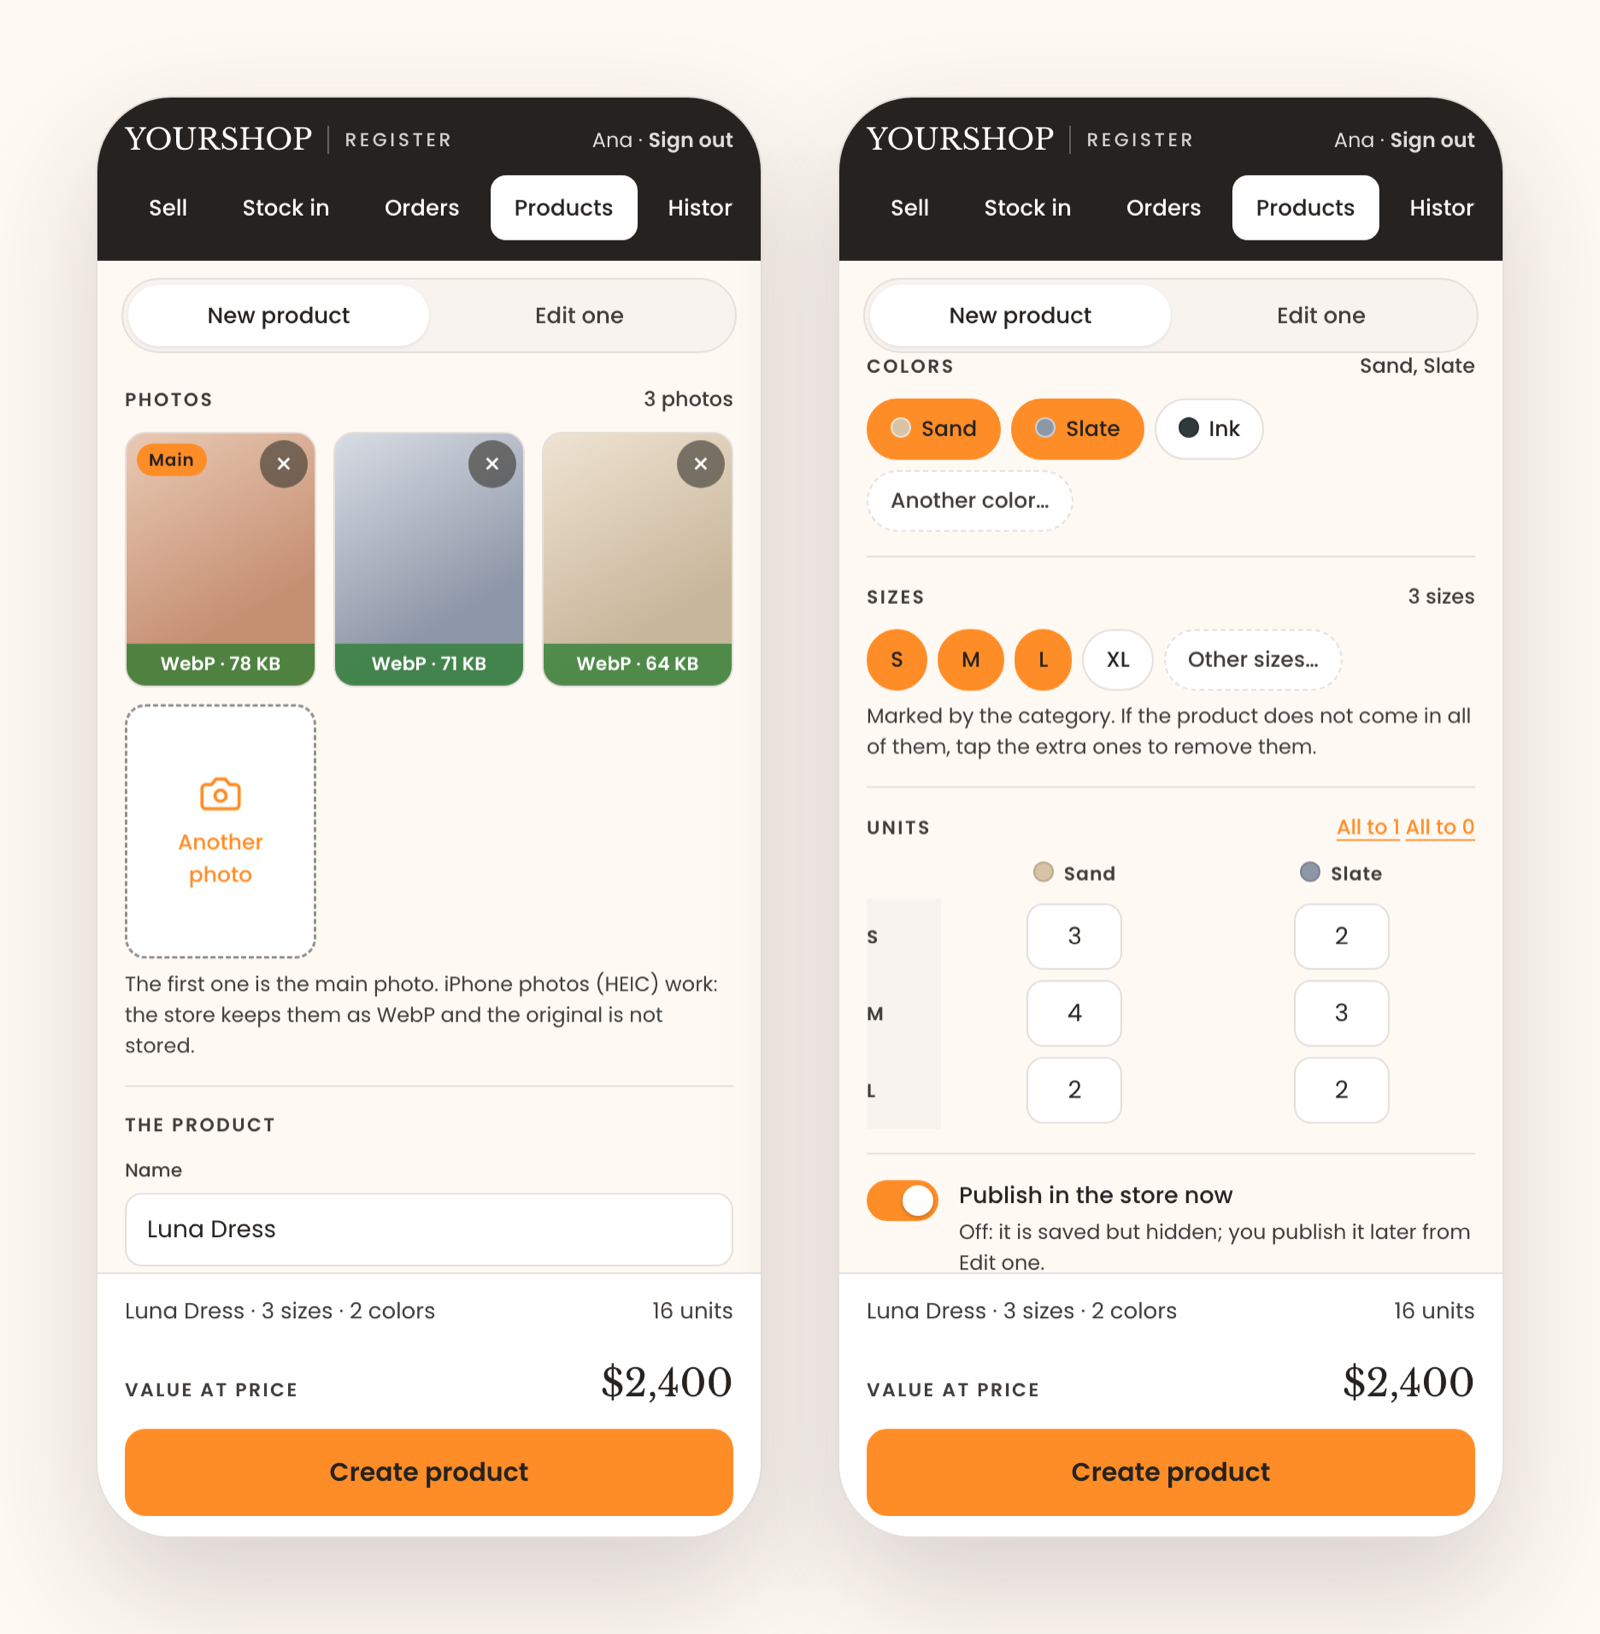
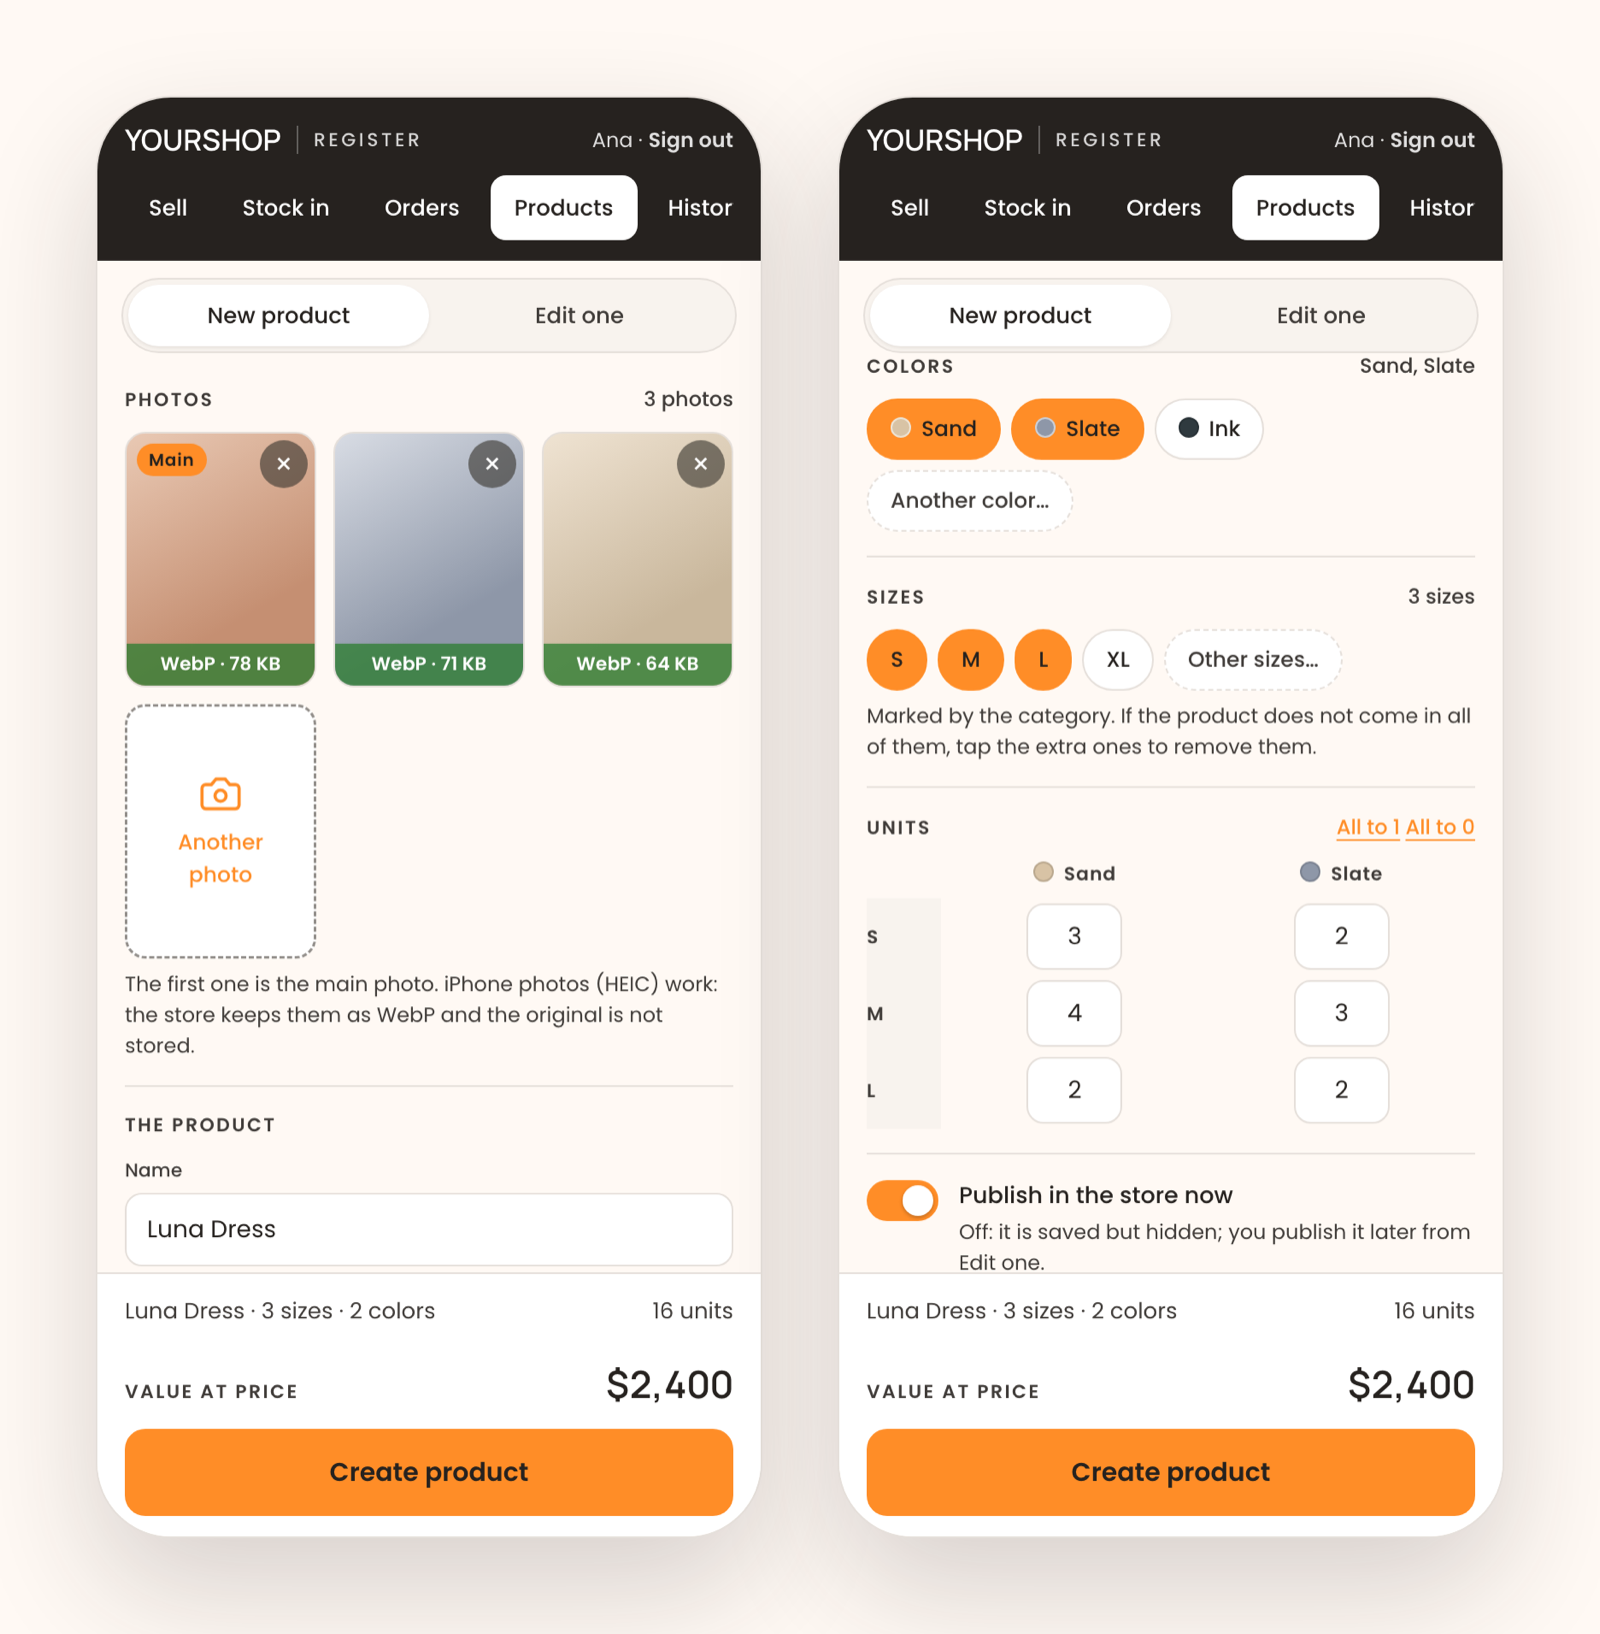
v0.24.6: Manrope en los totales y los titulares, en vez de Libre Baskerville
La caja venía de fábrica con una serif para el total, los números del historial, la
marca de la barra y los títulos. Se veía a libro, no a herramienta, y de lejos el
total no pesaba. Ahora ese papel lo hace Manrope en 600, que es la fuente de
doxstudio.com y tiene los números parejos.

La interfaz sigue en Poppins. La hoja de Google pide el 600 de esa segunda familia,
que antes no se descargaba. Una tienda que ya eligiera sus fuentes en Ajustes no
cambia nada.

Las seis capturas del directorio están rehechas con la pareja nueva.

diff --git a/assets/css/caja.css b/assets/css/caja.css
@@ -9,7 +9,7 @@
   --surface:#FFFFFF; --sunk:#F8F3EE; --line:#E5DFDA; --faint:#928E8A; --muted:#403C39;
   --ok:#2E7D32; --ok-soft:#E6F1E6; --warn:#26221F; --warn-soft:#EEE8E3; --scrim:rgba(38,34,31,.45);
   --ui:"Poppins",-apple-system,BlinkMacSystemFont,"Segoe UI",Roboto,sans-serif;
-  --serif:"Libre Baskerville",Georgia,serif;
+  --serif:"Manrope",-apple-system,BlinkMacSystemFont,"Segoe UI",Roboto,sans-serif;
   --mono:ui-monospace,SFMono-Regular,Menlo,monospace;
   /* Movimiento: entra rápido y se asienta suave; lo que se toca responde en 160 ms. */
   --out:cubic-bezier(.23,1,.32,1);
@@ -29,7 +29,7 @@ button,a,input,select,textarea{touch-action:manipulation} /* sin zoom por doble 
   padding-top:max(12px,env(safe-area-inset-top))}
 .brand{display:flex;align-items:center;gap:9px;white-space:nowrap}
 .logo{height:18px;width:auto;display:block}
-.brand-text{font-family:var(--serif);font-size:17px;color:var(--bar-ink)}
+.brand-text{font-family:var(--serif);font-weight:600;font-size:17px;color:var(--bar-ink)}
 .cajita{font-size:11px;letter-spacing:.16em;text-transform:uppercase;color:var(--bar-ink);opacity:.8;
   font-weight:500;padding-left:9px;border-left:1px solid rgba(0,0,0,.18)}
 .tabs{display:flex;gap:4px;margin-left:8px;overflow-x:auto}
@@ -147,7 +147,7 @@ select{appearance:none;background-image:linear-gradient(45deg,transparent 50%,va
   padding-bottom:max(12px,env(safe-area-inset-bottom))}
 .sum{display:grid;gap:3px;margin-bottom:10px}
 .sum div{display:flex;justify-content:space-between;font-size:13px;color:var(--muted);font-variant-numeric:tabular-nums}
-.sum div.tot{color:var(--ink);font-family:var(--serif);font-size:22px;align-items:baseline;padding-top:5px}
+.sum div.tot{color:var(--ink);font-family:var(--serif);font-weight:600;font-size:22px;align-items:baseline;padding-top:5px}
 .sum div.tot span:first-child{font-family:var(--ui);font-size:11px;letter-spacing:.11em;
   text-transform:uppercase;font-weight:600;color:var(--muted)}
 .go{appearance:none;border:0;width:100%;background:var(--primary);color:var(--primary-ink);border-radius:12px;
@@ -211,7 +211,7 @@ tr.off,li.off{opacity:.5}
 }
 .modal.out{opacity:0;transition-duration:140ms}
 .modal.out .card{transform:scale(.97);opacity:0;transition-duration:140ms}
-.modal h3{font-family:var(--serif);font-weight:400;font-size:20px;margin:0 0 8px}
+.modal h3{font-family:var(--serif);font-weight:600;font-size:20px;margin:0 0 8px}
 .modal .mp{color:var(--muted);font-size:13px;margin:0 0 14px}
 .burb{background:var(--soft);border-radius:14px 14px 14px 4px;padding:12px 14px;font-size:13.5px;
   white-space:pre-wrap;line-height:1.45;color:var(--soft-ink);word-break:break-word}
@@ -343,10 +343,10 @@ tr.off,li.off{opacity:.5}
 .hfechas{display:flex;gap:6px;align-items:center;font-size:12px;color:var(--muted)}
 .hfechas input{width:auto;padding:7px 10px;font-size:13px}
 .histwrap{max-width:1100px;margin:0 auto;width:100%}
-.hsub{font-family:var(--serif);font-size:19px;font-weight:400;margin:12px 0 10px}
+.hsub{font-family:var(--serif);font-size:19px;font-weight:600;margin:12px 0 10px}
 .kpis{display:grid;grid-template-columns:repeat(auto-fit,minmax(150px,1fr));gap:10px}
 .kpi{background:var(--surface);border:1px solid var(--line);border-radius:14px;padding:12px 14px;min-width:0}
-.kpi b{display:block;font-family:var(--serif);font-weight:400;font-size:22px;font-variant-numeric:tabular-nums;white-space:nowrap;overflow:hidden;text-overflow:ellipsis}
+.kpi b{display:block;font-family:var(--serif);font-weight:600;font-size:22px;font-variant-numeric:tabular-nums;white-space:nowrap;overflow:hidden;text-overflow:ellipsis}
 .kpi span{font-size:10.5px;letter-spacing:.08em;text-transform:uppercase;color:var(--muted);font-weight:600}
 .brk{display:grid;grid-template-columns:repeat(auto-fit,minmax(260px,1fr));gap:0 28px}
 .bl{list-style:none;margin:0;padding:0}
@@ -516,7 +516,7 @@ table.ped tr.tot td{font-weight:600;border-top:2px solid var(--line)}
 .login{flex:1;display:grid;place-items:center;padding:24px}
 .login-card{background:var(--surface);border:1px solid var(--line);border-radius:18px;padding:28px 26px;
   width:100%;max-width:380px;display:grid;gap:14px;box-shadow:0 24px 60px -30px rgba(0,0,0,.25)}
-.login-card h1{font-family:var(--serif);font-weight:400;font-size:24px;margin:0}
+.login-card h1{font-family:var(--serif);font-weight:600;font-size:24px;margin:0}
 .login-sub{margin:-10px 0 0;color:var(--muted);font-size:13px}
 .login-err{background:var(--soft);color:var(--soft-accent);border-radius:10px;padding:10px 12px;margin:0;font-size:13px;font-weight:500}
 .login-alt{font-size:13px;color:var(--muted);text-align:center;padding:6px}

diff --git a/assets/css/ajustes.css b/assets/css/ajustes.css
@@ -258,7 +258,7 @@ body.woocommerce_page_dox-pos #wpbody-content{padding-bottom:0}
 /* La caja en miniatura: las mismas variables que caja.css. */
 .dp-bar{display:flex;align-items:center;gap:9px;padding:11px 14px;background:var(--bar);color:var(--bar-ink)}
 .dp-logo-prev{height:16px;width:auto;display:block}
-.dp-brand{font-family:var(--serif);font-size:15px;white-space:nowrap}
+.dp-brand{font-family:var(--serif);font-weight:600;font-size:15px;white-space:nowrap}
 .dp-cajita{font-size:10px;letter-spacing:.16em;text-transform:uppercase;opacity:.8;font-weight:500;padding-left:9px;border-left:1px solid currentColor;white-space:nowrap}
 .dp-tabs{margin-left:auto;display:flex;gap:3px}
 .dp-tab{font-size:11px;font-weight:500;padding:5px 10px;border-radius:8px}
@@ -277,7 +277,7 @@ body.woocommerce_page_dox-pos #wpbody-content{padding-bottom:0}
 .dp-tag-prev{font-size:10.5px;font-weight:600;padding:2px 8px;border-radius:999px;background:var(--soft);color:var(--soft-accent)}
 .dp-total{display:flex;justify-content:space-between;align-items:baseline;margin:0 0 10px}
 .dp-total span{font-size:10px;letter-spacing:.11em;text-transform:uppercase;font-weight:600;color:var(--muted)}
-.dp-total b{font-family:var(--serif);font-weight:400;font-size:20px}
+.dp-total b{font-family:var(--serif);font-weight:600;font-size:20px}
 .dp-go{display:block;text-align:center;background:var(--primary);color:var(--primary-ink);border-radius:10px;padding:10px;font-weight:600;font-size:13px}
 .dp-go.alt{background:#fff;color:var(--primary);border:1px solid var(--primary);margin-top:6px;padding:7px;font-size:12px;font-weight:500}
 
@@ -297,7 +297,7 @@ body.woocommerce_page_dox-pos #wpbody-content{padding-bottom:0}
 /* La ventana de "marcar como enviado". */
 .dp-envio{display:grid;place-items:center;padding:24px 16px}
 .dp-modal-prev{width:100%;background:#fff;border:1px solid var(--line);border-radius:14px;padding:16px;box-shadow:0 16px 40px -20px rgba(0,0,0,.35)}
-.dp-modal-title{font-family:var(--serif);font-size:17px;margin:0 0 14px;color:var(--ink)}
+.dp-modal-title{font-family:var(--serif);font-weight:600;font-size:17px;margin:0 0 14px;color:var(--ink)}
 .dp-fake-input{display:block;height:36px;border:1px solid var(--line);border-radius:9px;background:#fff;margin-bottom:14px}
 .dp-envio .dp-go{margin-top:4px}
 

diff --git a/dox-pos.php b/dox-pos.php
@@ -3,7 +3,7 @@
  * Plugin Name:       Dox POS
  * Plugin URI:        https://github.com/davidzoque/dox-pos
  * Description:       The register for a shop that sells on WhatsApp and Instagram: record sales, layaways and incoming stock from the frontend (/caja), without wp-admin, with orders, products, history, a stock ledger and Excel files. Every sale is a WooCommerce order, so stock goes down on its own. With Dox POS Pro, the business assistant.
- * Version:           0.24.5
+ * Version:           0.24.6
  * Requires at least: 6.5
  * Requires PHP:      8.0
  * Author:            Dox Studio
@@ -22,7 +22,7 @@ if ( ! defined( 'ABSPATH' ) ) {
 	exit;
 }
 
-define( 'DOX_POS_VERSION', '0.24.5' );
+define( 'DOX_POS_VERSION', '0.24.6' );
 define( 'DOX_POS_FILE', __FILE__ );
 define( 'DOX_POS_PATH', plugin_dir_path( __FILE__ ) );
 define( 'DOX_POS_URL', plugin_dir_url( __FILE__ ) );

diff --git a/includes/settings.php b/includes/settings.php
@@ -34,7 +34,7 @@ function dox_pos_default_colors() {
 function dox_pos_default_fonts() {
 	return array(
 		'ui'    => 'Poppins',
-		'serif' => 'Libre Baskerville',
+		'serif' => 'Manrope',
 	);
 }
 
@@ -476,7 +476,7 @@ function dox_pos_fonts_url() {
 		return '';
 	}
 	$f = dox_pos_fonts();
-	return 'https://fonts.googleapis.com/css2?family=' . str_replace( ' ', '+', $f['ui'] ) . ':wght@400;500;600;700&family=' . str_replace( ' ', '+', $f['serif'] ) . ':wght@400;700&display=swap';
+	return 'https://fonts.googleapis.com/css2?family=' . str_replace( ' ', '+', $f['ui'] ) . ':wght@400;500;600;700&family=' . str_replace( ' ', '+', $f['serif'] ) . ':wght@400;600;700&display=swap';
 }
 
 /**
